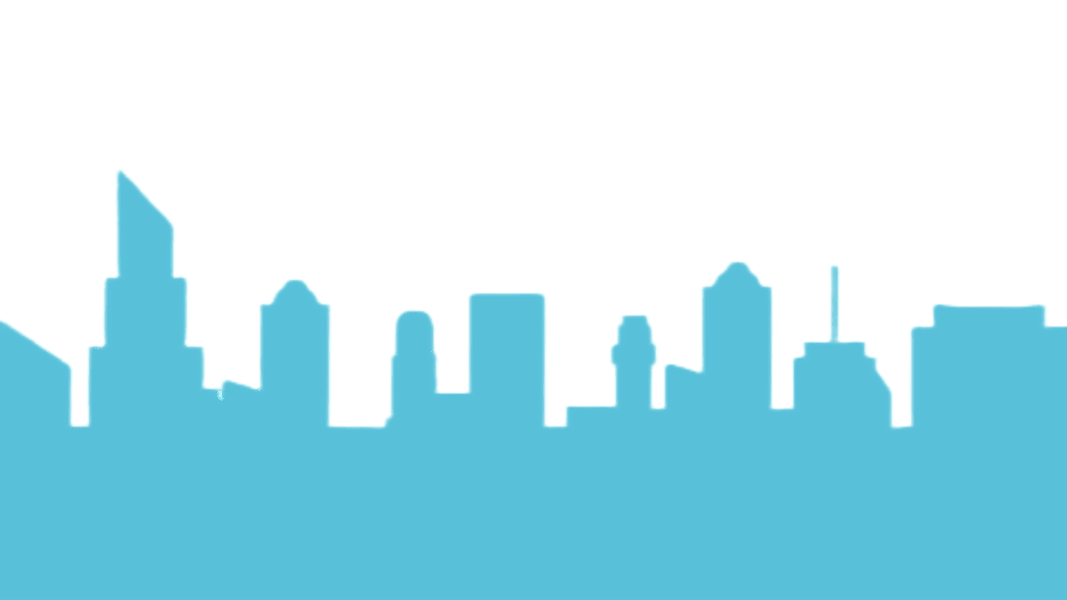
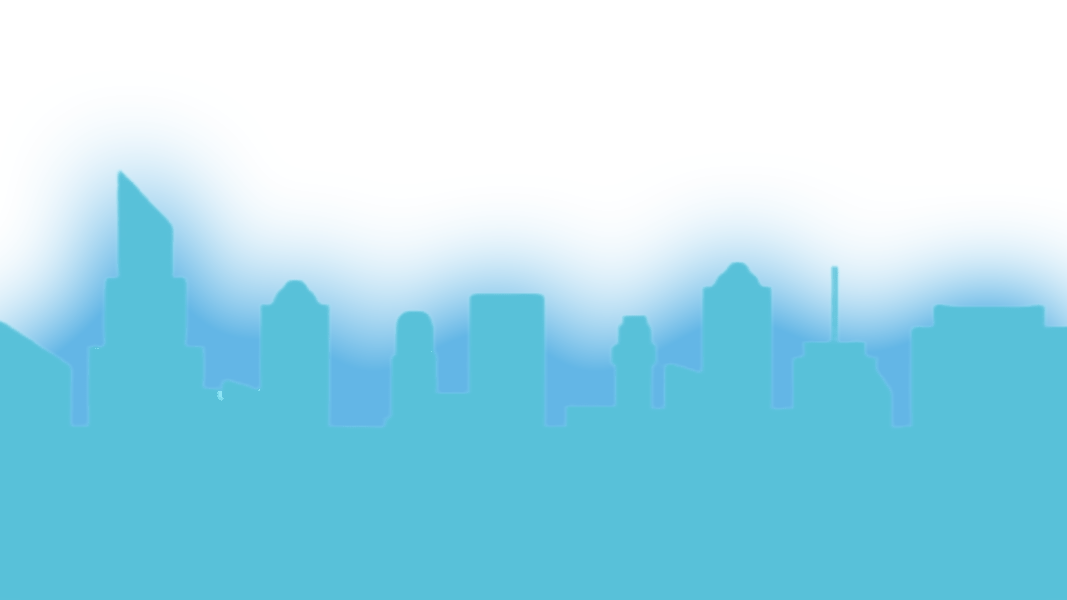
add clouds and graphics

Changed region(s): [[0.0, 0.24, 1.0, 0.72]]

diff --git a/src/game/gameui.ts b/src/game/gameui.ts
@@ -14,8 +14,12 @@ export class GameUI {
 
     private cityLayer1: Phaser.GameObjects.TileSprite;
     private cityLayer2: Phaser.GameObjects.TileSprite;
+    private cityLayer3: Phaser.GameObjects.TileSprite;
     private lastCX: number = 0;
     private lastCY: number = 0;
+
+    private clouds: Phaser.GameObjects.Image[] = [];
+    private generatedScreens: Set<string> = new Set();
 
     constructor(scene: Scene) {
         this.scene = scene;
@@ -28,7 +32,9 @@ export class GameUI {
         //bg layers
         this.cityLayer1 = this.scene.add.tileSprite(0, 0, 800, 600, 'city_1').setOrigin(0, 0).setScrollFactor(0).setDepth(-3);
         this.cityLayer2 = this.scene.add.tileSprite(0, 0, 800, 600, 'city_2').setOrigin(0, 0).setScrollFactor(0).setDepth(-2);
-        
+        this.cityLayer3 = this.scene.add.tileSprite(0, 0, 800, 600, 'city_3').setOrigin(0, 0).setScrollFactor(0).setDepth(-1);
+        //floor
+        this.scene.add.rectangle(0, 580, 800, 100, 0xcccccc).setOrigin(0, 0).setScrollFactor(0);
         
 
 
@@ -44,7 +50,83 @@ export class GameUI {
         this.fuelText = this.scene.add.text(20, 95, 'Fuel: 100%', {fontSize: '18px', color: '#000000'}).setOrigin(0, 0).setScrollFactor(0);
     }
 
+    private generateClouds(screenX: number, screenY: number): void {
+        const key = `${screenX},${screenY}`;
+
+        if (this.generatedScreens.has(key)){
+            return;
+        }
+
+        this.generatedScreens.add(key);
+
+
+        let numClouds = 0; 
+        
+        if(screenY == 0) numClouds = Phaser.Math.Between(1, 2);
+        else if(screenY <=0) numClouds = Phaser.Math.Between(3, 4);
+
+
+        for (let i = 0; i < numClouds; i++) {
+            const x = screenX * 800 + Phaser.Math.Between(0, 800);
+            let y;
+            if (screenY == 0) {
+                y = screenY * 600 + Phaser.Math.Between(0, 300);
+            } else {
+                
+                y = screenY * 600 + Phaser.Math.Between(0, 600);
+            }
+            
+            const cloud = this.scene.add.image(x, y, 'cloud_1')
+                .setOrigin(0.5)
+                .setScale(Phaser.Math.FloatBetween(0.4, 1.0))
+                .setAlpha(Phaser.Math.FloatBetween(0.5, 0.7))
+                .setDepth(0);
+
+            this.clouds.push(cloud);
+        }
+
+    }
+
+    private manageClouds(): void {
+        const camera = this.scene.cameras.main;
+        const cameraX = camera.scrollX;
+        const cameraY = camera.scrollY;
+
+        const currentScreenX = Math.floor(cameraX / 800);
+        const currentScreenY = Math.floor(cameraY / 600);
+
+        for (let x = currentScreenX - 1; x <= currentScreenX + 1; x++) {
+            for (let y = currentScreenY - 1; y <= currentScreenY + 1; y++) {
+                this.generateClouds(x, y);
+            }
+        }
+
+        this.clouds = this.clouds.filter(cloud => {
+            const distanceX = Math.abs(cloud.x - cameraX);
+            const distanceY = Math.abs(cloud.y - cameraY);
+            
+            if (distanceX > 1600 || distanceY > 1200) { // 2 screens away
+                cloud.destroy();
+                return false;
+            }
+            return true;
+        });
+
+        const screensToRemove: string[] = [];
+        this.generatedScreens.forEach(screenKey => {
+            const [x, y] = screenKey.split(',').map(Number);
+            if (Math.abs(x - currentScreenX) > 2 || Math.abs(y - currentScreenY) > 2) {
+                screensToRemove.push(screenKey);
+            }
+        });
+        screensToRemove.forEach(key => this.generatedScreens.delete(key));
+    
+    }
+
     public update(dist: number, alt: number, vel: number, score: number, fuel: number): void{
+        this.manageClouds();
+
+
         this.distanceText.setText(`Distance: ${Math.floor(dist)}m`);
         this.altitudeText.setText(`Altitude: ${Math.floor(alt)}m`);            
         this.velocityText.setText(`Velocity: ${Math.floor(vel)}`);
@@ -74,11 +156,15 @@ export class GameUI {
 
         this.cityLayer1.tilePositionX += dX * 0.2; 
         this.cityLayer2.tilePositionX += dX * 0.5; 
+        this.cityLayer3.tilePositionX += dX * 0.8;
 
         this.cityLayer1.y -= dY; 
         this.cityLayer2.y -= dY; 
+        this.cityLayer3.y -= dY;
 
         this.lastCX = cX;
         this.lastCY = cY;
+
+        
     }
 }

diff --git a/src/game/scenes/Game.ts b/src/game/scenes/Game.ts
@@ -42,9 +42,6 @@ export class Game extends Scene
 
         // this.add.rectangle(0, 0, 3000, 600, 0x028af8).setOrigin(0, 0);
 
-        this.floor = this.add.rectangle(0, 580, 3000, 20, 0x00ff00).setOrigin(0, 0);
-        this.physics.add.existing(this.floor, true);
-
         this.launchButton = this.add.container(400, 500).setScrollFactor(0);
         const buttonBg = this.add.rectangle(0, 0, 160, 40, 0x00ff00).setInteractive();
         this.launchButton.add([buttonBg, this.add.text(0, 0, 'Launch', {fontSize: '20px', color: '#000'}).setOrigin(0.5)])
@@ -65,8 +62,6 @@ export class Game extends Scene
         this.plane = new Glider(this, 0, 500, 'plane');
         this.plane.sprite.setVisible(false);
         
-
-        this.physics.add.collider(this.plane.sprite, this.floor, () => {this.isOnGround = true;});
 
         //score calc
         this.scoreSquares = this.add.group();
@@ -124,12 +119,7 @@ export class Game extends Scene
 
             
             
-            if(this.isOnGround){
-                body.setVelocityX(body.velocity.x * 0.97)
-                if(Math.abs(body.velocity.x) < 10){
-                    body.setVelocityX(0);
-                }
-            }
+            
 
             this.isOnGround = false;
             

diff --git a/src/game/scoremodifier.ts b/src/game/scoremodifier.ts
@@ -14,10 +14,21 @@ export class ScoreModifier {
         this.operation = operation;
         this.color = color;
 
-        const square = scene.add.rectangle(0, 0, 30, 30, this.color).setOrigin(0.5);
-        const text = scene.add.text(0, 0, `${this.operation}${this.value}`, { fontSize: '16px', color: '#000' }).setOrigin(0.5, 0.5);
+        let displayObject: Phaser.GameObjects.GameObject;
 
-        this.container = scene.add.container(x, y, [square, text]);
+        if (operation === '+') {
+            // Random skyberry for positive modifiers
+            const skyberryNum = Phaser.Math.Between(1, 3);
+            displayObject = scene.add.sprite(0, 0, `skyberry_${skyberryNum}`).setOrigin(0.5).setScale(0.4);
+        } else if (operation === '-') {
+            const sourberryNum = Phaser.Math.Between(1, 3);
+            displayObject = scene.add.sprite(0, 0, `sourberry_${sourberryNum}`).setOrigin(0.5).setScale(0.4);
+        } else {
+            displayObject = scene.add.rectangle(0, 0, 30, 30, this.color).setOrigin(0.5);
+        }
+
+
+        this.container = scene.add.container(x, y, [displayObject]);
         this.container.setData('modifier', this);
 
         scene.physics.world.enable(this.container);

diff --git a/src/game/glider.ts b/src/game/glider.ts
@@ -7,6 +7,7 @@ export class Glider {
 
     private thrustForce = 200;
     private isThrusting = false;
+    private isOnGround = false;
 
     private maxFuel = 100;
     private currentFuel = 100;
@@ -55,7 +56,7 @@ export class Glider {
         let vx = this.body.velocity.x;
         let vy = this.body.velocity.y;
         const speed = Math.hypot(vx, vy);
-        
+
         const gravity = 300;
 
 
@@ -95,8 +96,23 @@ export class Glider {
             thrustY = Math.sin(this.angle) * this.thrustForce;
         }
 
+        let newVx = (vx + thrustX*dt) * drag
+        let newVy = (vy + thrustY * dt + gravity*dt + lift*dt) * drag
+
+        if(this.body.y >= 564){
+                this.body.y = 564;
+                newVx *= 0.97;
+                if(Math.abs(newVx) < 10){
+                    newVx = 0; 
+                }
+
+                if (newVy > 0) {
+                    newVy = 0; // no up when on ground
+                }
+            }
+
         //final set
-        this.body.setVelocity((vx + thrustX*dt) * drag, (vy + thrustY * dt + gravity*dt + lift*dt) * drag);
+        this.body.setVelocity(newVx, newVy);
     }
 
     getCurrentFuel(): number {

diff --git a/src/game/scenes/Preloader.ts b/src/game/scenes/Preloader.ts
@@ -29,12 +29,25 @@ export class Preloader extends Scene
     {
         //  Load the assets for the game - Replace with your own assets
         this.load.setPath('assets');
+        this.load.image('menu_logo', 'menu_logo.png');
+        
         this.load.image('plane', 'plane.png');
+        
         this.load.image('intro', 'intro_comic.png')
+
+
 
         this.load.image('city_1', 'city_bg_1.png');
         this.load.image('city_2', 'city_bg_2.png');
-        // this.load.image('logo', 'logo.png');
+        this.load.image('city_3', 'city_bg_3.png');
+        this.load.image('cloud_1', 'city_cloud.png');
+        //berries
+        this.load.image('skyberry_1', 'skyberry_1.png');
+        this.load.image('skyberry_2', 'skyberry_2.png');
+        this.load.image('skyberry_3', 'skyberry_3.png');
+        this.load.image('sourberry_1', 'sourberry_1.png');
+        this.load.image('sourberry_2', 'sourberry_2.png');
+        this.load.image('sourberry_3', 'sourberry_3.png');
     }
 
     create ()
